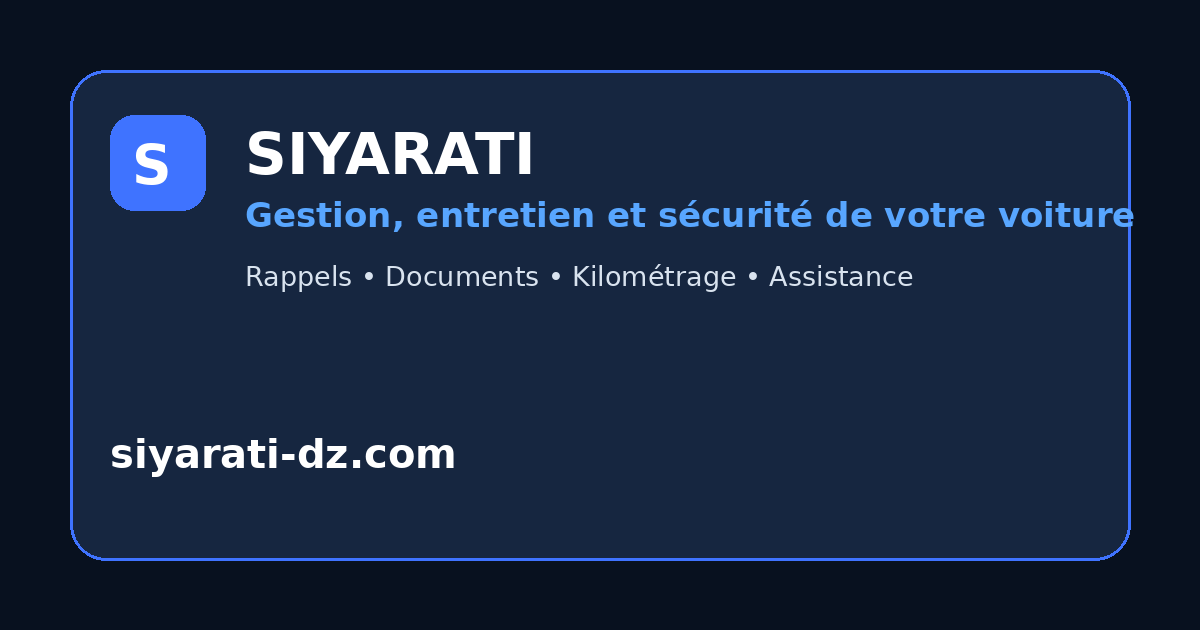
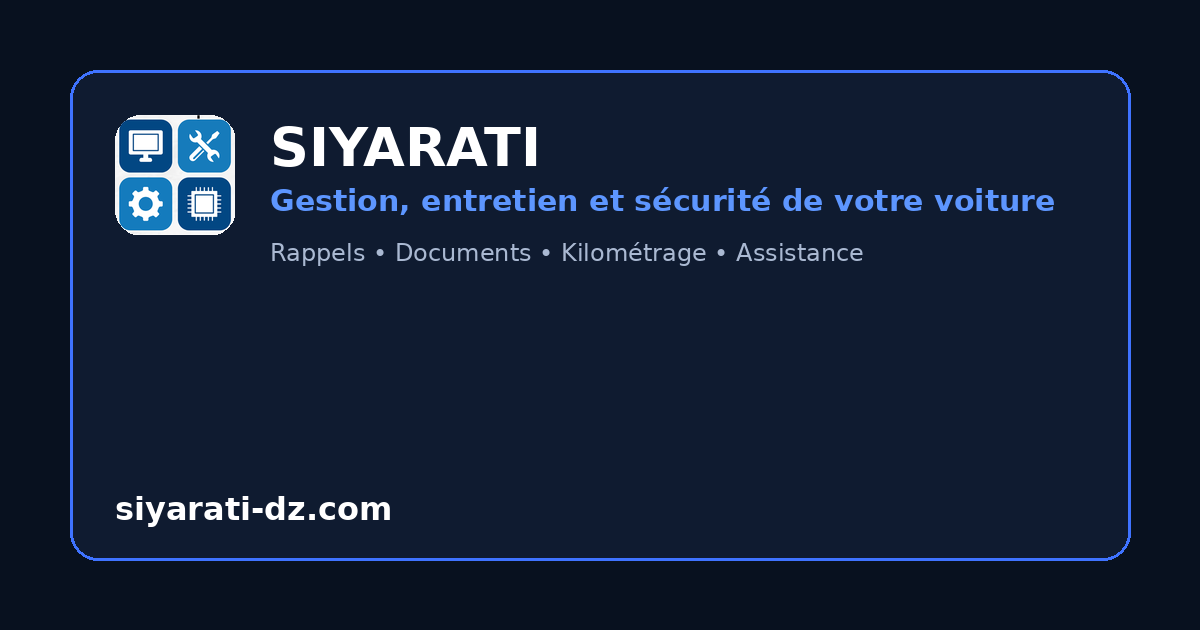
Add files via upload

diff --git a/sw.js b/sw.js
@@ -1,10 +1,14 @@
 const DATABASE_NAME = "siyarati-notifications";
 const DATABASE_VERSION = 2;
-const APP_CACHE_NAME = "siyarati-app-v3";
+const APP_CACHE_NAME = "siyarati-app-v4";
 const APP_SHELL = [
   "./",
   "./index.html",
   "./manifest.webmanifest",
+  "./favicon.ico",
+  "./apple-touch-icon.png",
+  "./icons/icon-192.png",
+  "./icons/icon-512.png",
   "./js/core-storage.js",
   "./js/notifications.js",
   "./js/documents-vehicles.js",
